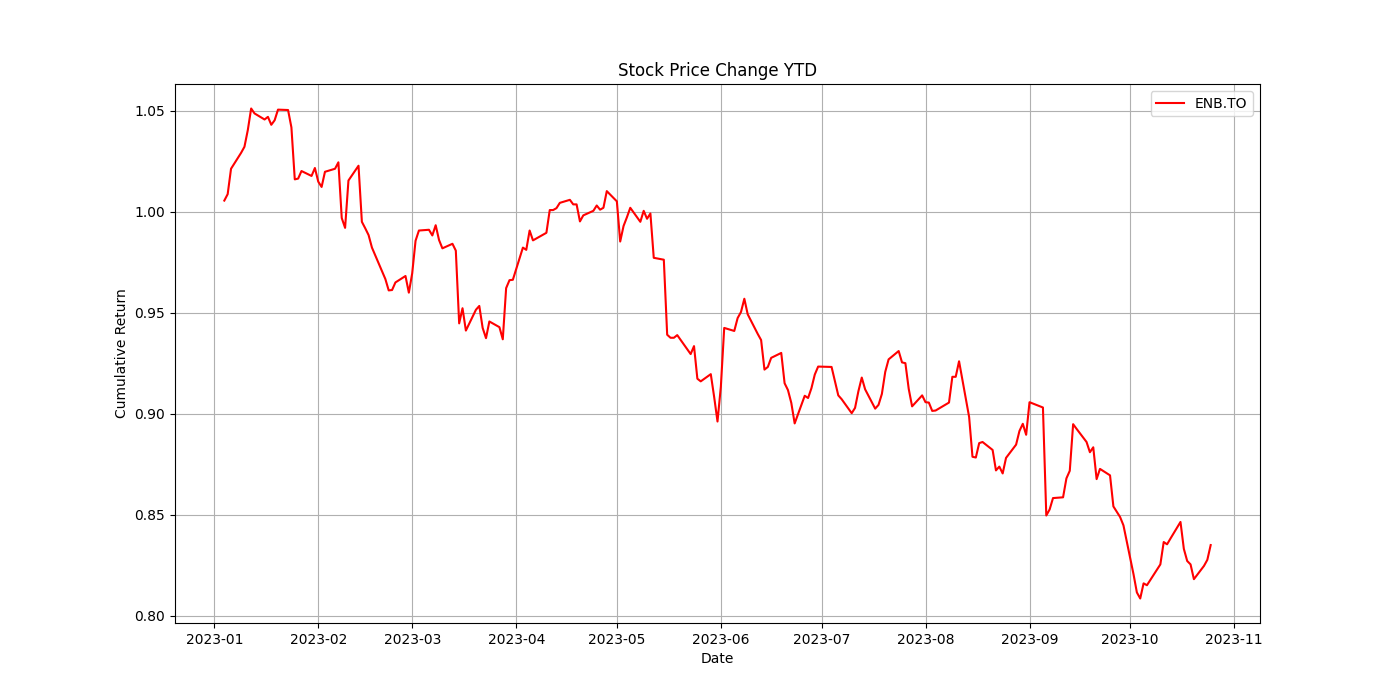
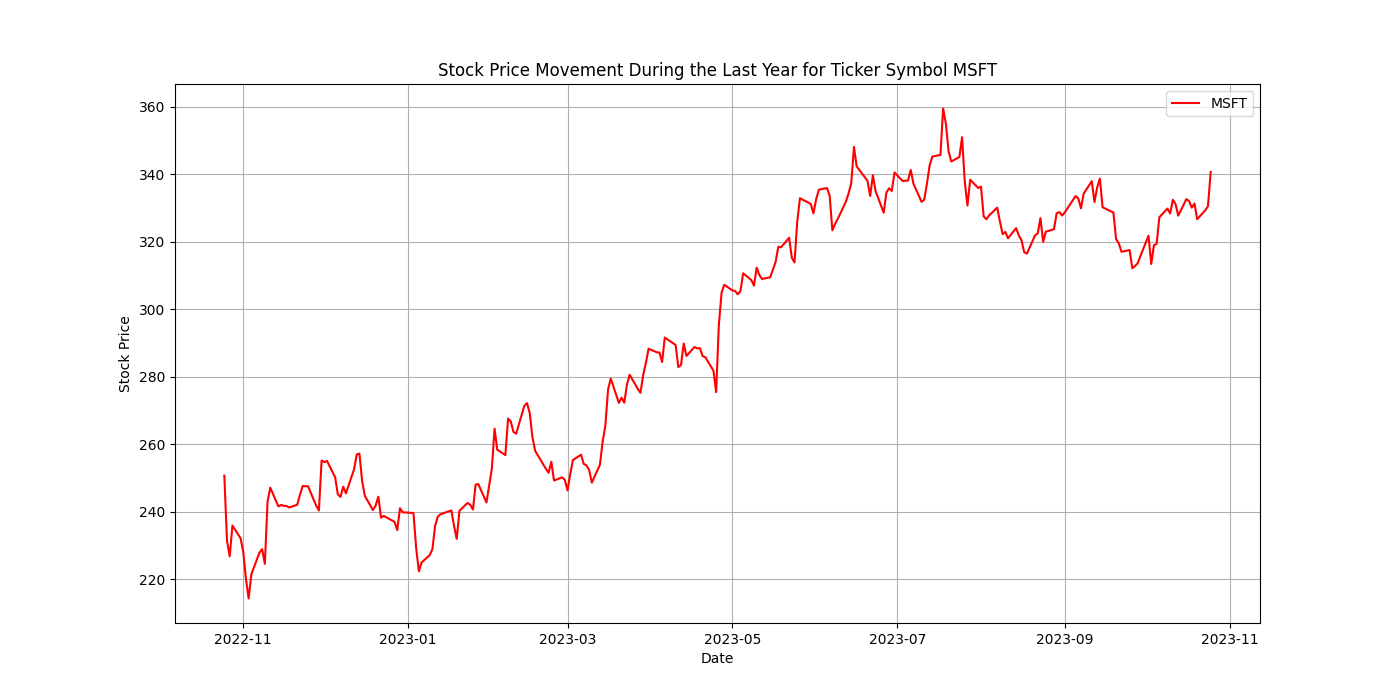
Manual tidy-up and enhancement of app: adding ability to enter a stock price after viewing a chart (this was missed by SolidGPT); using Flask templates and includes to avoid duplication; changing chart to show stock price rather than cumulative return percentage

diff --git a/StockPriceLookupWebsite/02_CodeSolutionWithHumanCompletion/templates/index.html b/StockPriceLookupWebsite/02_CodeSolutionWithHumanCompletion/templates/index.html
@@ -1,4 +1,3 @@
-<form action="/stock" method="post">
-    <input type="text" name="ticker" placeholder="Enter a stock ticker symbol" required>
-    <button type="submit">Submit</button>
-</form>
+{% include "header.html" %}
+
+{% include "search.html" %}

diff --git a/StockPriceLookupWebsite/02_CodeSolutionWithHumanCompletion/templates/search.html b/StockPriceLookupWebsite/02_CodeSolutionWithHumanCompletion/templates/search.html
@@ -1,0 +1,5 @@
+<form action="/stock" method="post">
+    <label for="ticker">Enter a stock ticker symbol:</label>
+    <input type="text" name="ticker" placeholder="" required>
+    <button type="submit">Submit</button>
+</form>

diff --git a/StockPriceLookupWebsite/02_CodeSolutionWithHumanCompletion/templates/stock.html b/StockPriceLookupWebsite/02_CodeSolutionWithHumanCompletion/templates/stock.html
@@ -1,1 +1,5 @@
+{% include 'header.html' %}
+
 <img src="{{ url_for('static', filename='stock_graph.png') }}" alt="Stock Graph">
+
+{% include 'search.html' %}

diff --git a/StockPriceLookupWebsite/02_CodeSolutionWithHumanCompletion/templates/header.html b/StockPriceLookupWebsite/02_CodeSolutionWithHumanCompletion/templates/header.html
@@ -1,0 +1,1 @@
+<h1>Stock Price App</h1>

diff --git a/StockPriceLookupWebsite/02_CodeSolutionWithHumanCompletion/stock_chart_app.py b/StockPriceLookupWebsite/02_CodeSolutionWithHumanCompletion/stock_chart_app.py
@@ -12,15 +12,15 @@ def index():
 @app.route('/stock', methods=['POST'])
 def stock():
    ticker = request.form['ticker']
-   start_date = datetime(datetime.now().year, 1, 1)
    end_date = datetime.now()
+   start_date = datetime(end_date.year - 1, end_date.month, end_date.day)
    data = yf.download(ticker, start=start_date, end=end_date)
-   data['Return'] = (1 + data['Close'].pct_change()).cumprod()
+   # data['Return'] = (1 + data['Close'].pct_change()).cumprod()
    plt.figure(figsize=(14, 7))
-   plt.plot(data['Return'], 'r', label=ticker)
-   plt.title('Stock Price Change YTD')
+   plt.plot(data['Close'], 'r', label=ticker)
+   plt.title(f'Stock Price Movement During the Last Year for Ticker Symbol {ticker}')
    plt.xlabel('Date')
-   plt.ylabel('Cumulative Return')
+   plt.ylabel('Stock Price')
    plt.legend()
    plt.grid(True)
    plt.savefig('static/stock_graph.png')  # Save the graph as a static file

diff --git a/StockPriceLookupWebsite/02_CodeSolutionWithHumanCompletion/README.md b/StockPriceLookupWebsite/02_CodeSolutionWithHumanCompletion/README.md
@@ -1,0 +1,5 @@
+# Stock ticket web app
+
+* `python -m pip install -r requirements.txt`
+* `python -m flash --app stock_chart_app run`
+* Access the application via [http://localhost:5000/](http://localhost:5000/)
